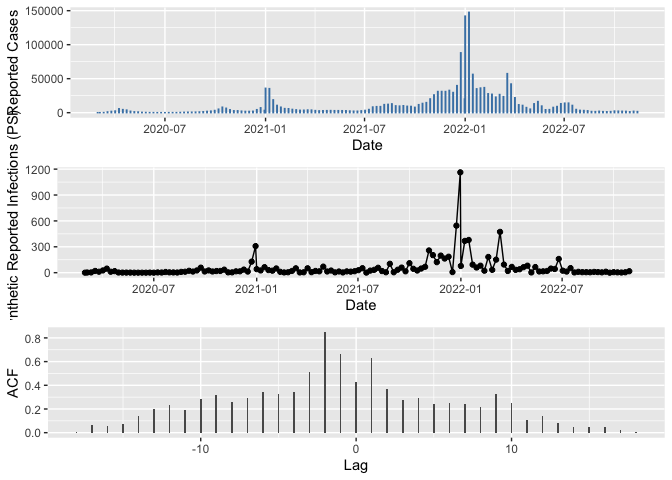
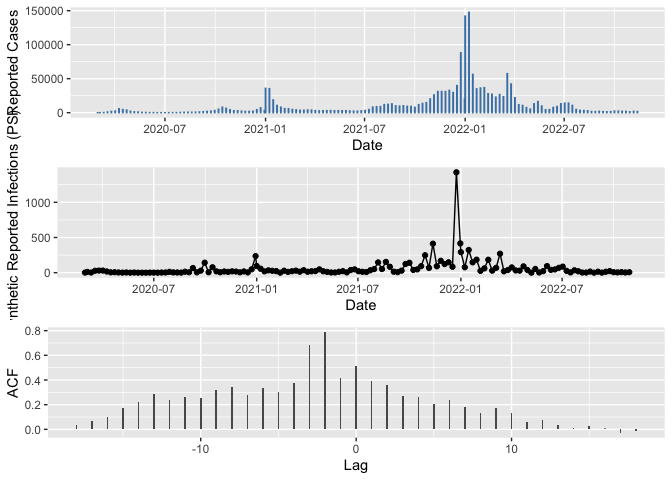
Updating code for new version

diff --git a/data-raw/Examples/02 Participatory Surveillance/README.md b/data-raw/Examples/02 Participatory Surveillance/README.md
@@ -99,22 +99,24 @@ The output tibble contains all the information used in calculating the
 synthetic values.
 
     ## Rows: 144
-    ## Columns: 15
+    ## Columns: 17
     ## $ Index               <int> 1, 2, 3, 4, 5, 6, 7, 8, 9, 10, 11, 12, 13, 14, 15,…
     ## $ Date                <date> 2020-02-29, 2020-03-04, 2020-03-11, 2020-03-18, 2…
     ## $ Year                <dbl> 2020, 2020, 2020, 2020, 2020, 2020, 2020, 2020, 20…
     ## $ Week                <dbl> 9, 10, 11, 12, 13, 14, 15, 16, 17, 18, 19, 20, 21,…
     ## $ WeeklyCases         <dbl> 2, 32, 189, 1106, 1906, 2474, 5770, 4561, 3837, 21…
     ## $ ReportingFraction   <dbl> 0.7, 0.7, 0.7, 0.7, 0.7, 0.7, 0.7, 0.7, 0.7, 0.7, …
-    ## $ EstimatedCasesDet   <dbl> 3, 46, 270, 1580, 2723, 3534, 8243, 6516, 5481, 30…
+    ## $ EstimatedCasesDet   <int> 2, 45, 270, 1580, 2722, 3534, 8242, 6515, 5481, 30…
     ## $ Population          <dbl> 5e+06, 5e+06, 5e+06, 5e+06, 5e+06, 5e+06, 5e+06, 5…
     ## $ ProportionEnrolled  <dbl> 0.005, 0.005, 0.005, 0.005, 0.005, 0.005, 0.005, 0…
     ## $ LeadingTime         <dbl> 2, 2, 2, 2, 2, 2, 2, 2, 2, 2, 2, 2, 2, 2, 2, 2, 2,…
     ## $ FPFraction          <dbl> 0.05, 0.05, 0.05, 0.05, 0.05, 0.05, 0.05, 0.05, 0.…
     ## $ TotalEnrolled       <dbl> 25000, 25000, 25000, 25000, 25000, 25000, 25000, 2…
-    ## $ WeeklyActiveUsers   <dbl> 19465, 17953, 17053, 19084, 16433, 18756, 16898, 1…
-    ## $ PSReportedCasesDet  <dbl> 1, 6, 9, 14, 29, 27, 23, 12, 7, 6, 3, 2, 1, 1, 0, …
-    ## $ PSSyntheticReported <dbl> 0, 2, 3, 20, 11, 26, 47, 11, 18, 2, 1, 1, 1, 0, 0,…
+    ## $ WeeklyActiveUsers   <dbl> 16774, 17379, 17668, 16271, 18973, 18865, 18364, 1…
+    ## $ AttackRateReported  <dbl> 0.0000004, 0.0000064, 0.0000378, 0.0002212, 0.0003…
+    ## $ AttackRateEstimated <dbl> 5.714286e-07, 9.142857e-06, 5.400000e-05, 3.160000…
+    ## $ PSReportedCasesMean <dbl> 1, 5, 11, 14, 32, 23, 20, 11, 6, 6, 3, 2, 1, 1, 0,…
+    ## $ PSSyntheticReported <dbl> 1, 11, 2, 27, 30, 30, 17, 5, 7, 3, 1, 3, 0, 2, 0, …
 
 We can now show the results via three plots. These include:
 

diff --git a/README.md b/README.md
@@ -13,6 +13,9 @@ Here are some examples that may be useful
 - [Creating synthetic data from our world in data](
 https://github.com/JimDuggan/p2synthr/tree/main/data-raw/Examples/01%20OWID)
 
+- [Creating participatory surveillance synthetic data](
+https://github.com/JimDuggan/p2synthr/tree/main/data-raw/Examples/02%20Participatory%20Surveillance)
+
 ### Author Information
 
 - Author: Jim Duggan
